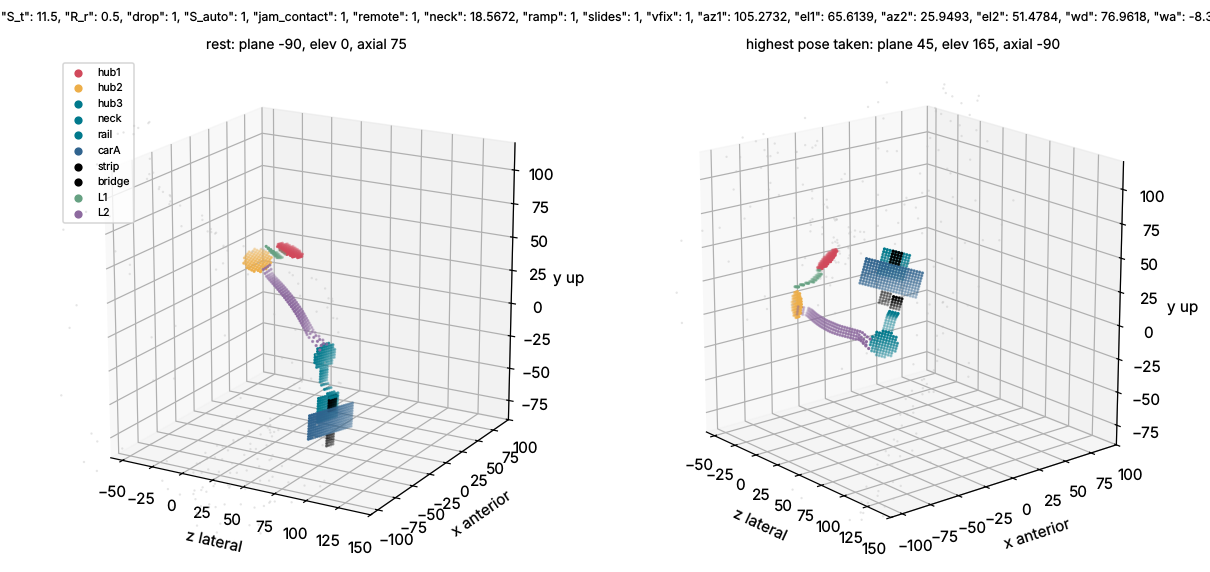
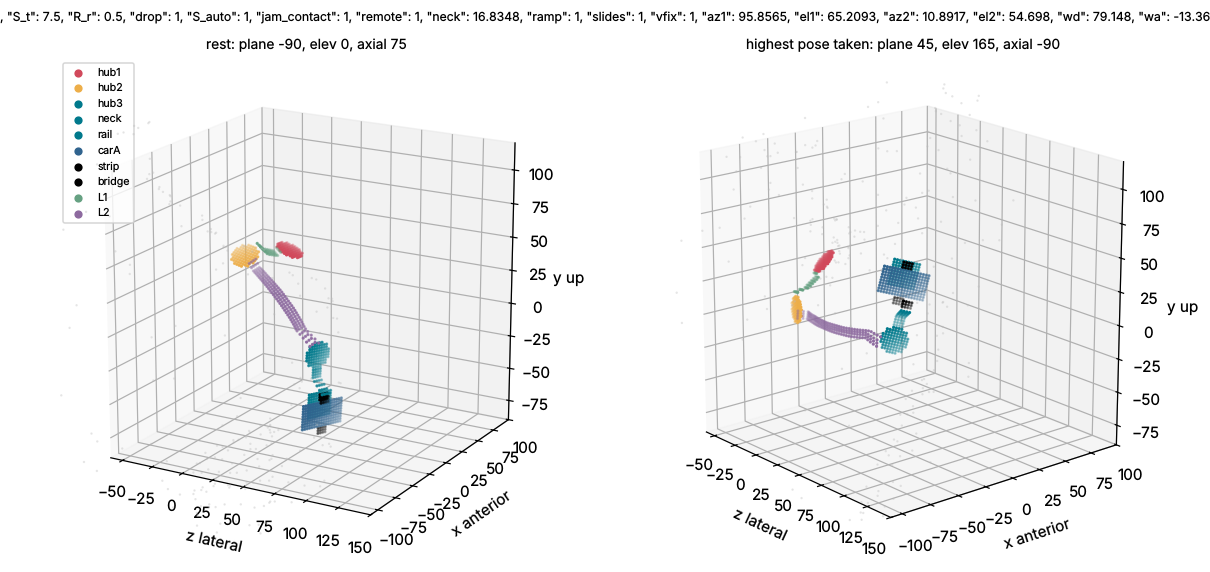
offset-skin-normal-3r screened: gap 32.61 (score 88.14, Bench(60,160) fast) - exact 2-slide cuff, no radial slide; gate pending round 3
Claude-Session: https://claude.ai/code/session_014NJ3o5nJ9b1u4LXnQRjmMh

Changed region(s): [[0.0, 0.0, 1.0, 0.0594], [0.6421, 0.4161, 0.795, 0.6241], [0.1835, 0.4161, 0.3058, 0.7727]]

diff --git a/docs/concepts/offset-skin-normal-3r.md b/docs/concepts/offset-skin-normal-3r.md
@@ -88,41 +88,54 @@ stays at the neck end and nothing arm-fixed ever reaches under the neck. Same st
 | coarse farm sweep, 216 configs (random seats: best 47.90) | 45.31 | | | | | | |
 | CMA stream A (481 tries, sigma collapsed) | 38.65 | 85.95 | 0.688 | 1.000 | 0.755 | 0.371 | 0.029 |
 | CMA stream B (665 tries, collapsed) | 40.06 | 85.43 | 0.675 | 1.000 | 0.791 | 0.404 | 0.067 |
-| **CMA stream C (697 tries, collapsed) - best, k1908** | **35.65** | **87.04** | 0.713 | 1.000 | 0.748 | 0.383 | 0.017 |
+| CMA stream C (697 tries, collapsed), k1908 | 35.65 | 87.04 | 0.713 | 1.000 | 0.748 | 0.383 | 0.017 |
 | control at k1908's seats, b3 0 (J3 on the GH ray) | 42.92 | 84.39 | 0.681 | | 0.713 | | 0.023 |
+| CMA round 2, stream D (from C, sigma 0.3, 673 tries) | 34.45 | 87.47 | 0.688 | 0.967 | 0.791 | 0.404 | 0.023 |
+| CMA round 2, stream E (from C, sigma 0.6, 673 tries) | 34.53 | 87.44 | 0.713 | 1.000 | 0.759 | 0.386 | 0.017 |
+| **CMA round 2, stream F (from A, sigma 0.5, 873 tries) - best, k4216** | **32.61** | **88.14** | 0.706 | 0.967 | 0.779 | 0.389 | 0.012 |
+| control at k4216's seats, b3 0 (J3 on the GH ray) | 46.71 | 83.01 | 0.681 | 0.917 | 0.709 | 0.319 | 0.024 |
+| reference: skin-normal-hubs-selfaligning (3 slides, radial 6.7 mm), its sweep best at 22:37 | 35.86 | 86.96 | 0.656 | 1.000 | 0.803 | 0.349 | 0.018 |
 
-Best configuration (k1908): J1 seat bvec(105.3, 65.6), J2 seat bvec(25.9, 51.5) (both on GH rays: link 1 40.5 deg,
-link 2 67.5 deg), J3 seat w_dir(77.0, -8.4) tilted b3 0.34 toward the skin normal (27.9 deg between the GH ray and the
-skin normal there; the J3 line misses GH by 11.0 mm), neck 18.6 mm; slide travel used +-9.7 along / +-11.0 across
-(ranges 10.2 / 11.5); radial drift 0.000 mm. Faces f1 49.6, f2 61.2, f3 74.8 mm. In band 2-14 per part: hub 1 99 %,
-hub 2 97 %, link 1 90 %, rail block 89 %, link 2 82 %, moving rail 69 %, neck 62 %, carriage A 62 %, hub 3 51 %
-(median 13.9 mm), bridge 12 % (16.9 mm). b3 ladder at these seats: 0 -> 42.92, 0.1 40.76, 0.2 41.80, 0.3 38.82,
-0.4 37.49, 0.5 45.36 (slide travel then exceeds what the stack can carry in band).
+Best configuration (k4216): J1 seat bvec(95.9, 65.2), J2 seat bvec(10.9, 54.7) (both on GH rays: link 1 40.3 deg,
+link 2 74.1 deg), J3 seat w_dir(79.2, -13.4) tilted b3 0.23 toward the skin normal (26.6 deg between the GH ray and
+the skin normal there; the J3 line misses GH by 7.0 mm), neck 16.8 mm; slide travel used +-5.8 along / +-7.0 across
+(ranges 6.3 / 7.5); radial drift 0.000 mm. Faces f1 51.3, f2 61.2, f3 75.7 mm. In band 2-14 per part: hub 1 100 %,
+hub 2 99.6 %, link 1 93 %, rail block 89 %, link 2 82 %, moving rail 70 %, carriage A 67 %, neck 62 %, hub 3 50 %
+(median 14.0 mm), bridge 0 % (17.7 mm). The k1908 basin (C) as a b3 ladder: 0 -> 42.92, 0.1 40.76, 0.2 41.80,
+0.3 38.82, 0.4 37.49, 0.5 45.36 (slide travel then exceeds what the stack can carry in band).
 
-**What the morphology buys.** At the best seats, tilting J3 toward the skin normal and letting its line miss GH by
-~11 mm buys 7.3 gap (42.92 -> 35.65): fewer J2-fold poses (46 -> 43, the J3 direction moves) and hub 3 / stage lower.
-The re-tuned J1 / J2 seats (a spherical-family freedom) are worth the rest of the gain over the baseline. The
-2-slide exact cuff scores level with the 3-slide skin-normal-hubs-selfaligning (35.86 on the same bench, its radial
-slide 6.7 mm): **the radial slide is not needed** - it buys nothing measurable and adds an unguided stroke (the
-verifier's open hole in the seed) and 0.5 + R_r mm of stack.
+**What the morphology buys.** At the best seats, tilting J3 toward the skin normal (b3 0.23) with its line 7 mm off GH
+buys 14.1 gap (46.71 -> 32.61; 7.3 at k1908's seats): fewer J2-fold poses (52 -> 47) because the J3 direction moves,
+hub 3 and the stage lower, link 2 straighter. The re-tuned J1 / J2 seats are a spherical-family freedom (they could be
+handed to the spherical GPU sweep). The 2-slide exact cuff scores better than the 3-slide
+skin-normal-hubs-selfaligning on the same bench (32.61 vs its 35.86 at 22:37): **the radial slide is not needed on
+this bench** - it adds an unguided stroke (the verifier's open hole in the seed) and 0.5 + R_r mm of stack.
 
-## Red team (best configuration, k1908)
+**Convergence gate (binding), whole history in order (4523 tries: 220 coarse/controls, 1843 CMA round 1, 2356
+round 2, 7 controls): NOT converged** - the best gained 1.11 score points over the second half and 0.67 over the last
+third (round 2's restart from stream A's basin found 32.61); top 5 within 0.07. Each CMA stream converged on its own
+(sigma collapsed to 0.02; per-stream gates: A +0.25 / +0.08 / 0.02, B +0.27 / +0.09 / 0.03, C +0.15 / +0.15 / 0.03),
+so the landscape is multi-basin: restarts from a stream's optimum at larger sigma find new basins. Round 3 (G, H from
+k4216 at sigma 0.3 / 0.7, I from D at 0.5) was submitted to the farm at 23:31 UTC (outputs .cache/osn/cma{G,H,I}.json).
 
-* **The pose that jams.** 43 poses are lost to the J2 fold (>= 10 deg margin) - across-the-body 12 of 36 lost, overhead 16
-  of 41 (15 fold + 1 skin; Raise overhead elev 124-150, plane 30), behind-the-back 3 of 19. The fold window is
-  |a1 - a2| + 10 = 37 deg to a1 + a2 - 10 = 98 deg of the J1-J3 axis angle, which spans 13-156 deg over the bench
-  (5-95 % 30-124 deg): 20 poses fall below, 27 above (measured at k3). Margin sensitivity at k3: 10 deg 173 / 220
-  poses close, 5 deg 183, 0 deg 191. No offset or slide can move this: the orientation IK is the spherical one.
-* **The point that pinches.** Over the poses taken the lowest metal is link 2 at **0.01 mm** (plane 60, elev 165,
-  axial -90), hub 1 at 0.52 mm (plane 45, elev 165) and 0.55 mm (plane 135, elev 135), hub 2 at 0.55 mm (plane 0,
-  elev 75, axial 45), rail block 0.70 mm (plane -90, elev 45, axial 120), hub 1 0.76 mm in the *Raise overhead*
-  clip top frames. In those top frames hub 2 sits in the gap UNDER the elevated arm (the outward ray through hub 2
-  re-enters the arm: needed height unbounded, the pose was dropped from the fit, yet the metal clears by >= 0.76 mm,
-  so the bench takes it) - a closing pinch between arm and acromion.
-* **The optimistic number.** The bench takes a pose at metal >= 0 mm. Counting a taken pose as contact when its
-  metal comes within 1 mm: gap 42.49 (8 poses, 3 clip frames); within 2 mm: 47.26 (12 poses). The 35.65 leans on
-  ~7-12 points of near-contact that CMA pushed the fitted undersides into; the verifier should re-measure on
-  Bench(110,360) exact where the envelope includes more poses.
+## Red team (best configuration, k4216)
+
+* **The pose that jams.** 47 poses are lost to the J2 fold (>= 10 deg margin): across-the-body 12 of 36, overhead 19
+  of 41 (Raise overhead clip frames #3 and #7 among them: follow 0.967), behind-the-back 5 of 19; 2 more to the skin
+  (plane -15, elev 90-105, axial 45-60, where hub 2's outward ray is blocked by the elevated arm). The fold window is
+  |a1 - a2| + 10 to a1 + a2 - 10 of the J1-J3 axis angle (here 44-104 deg), which spans 13-156 deg over the bench (5-95 %
+  30-124 deg). Margin sensitivity (at k3): 10 deg 173 / 220 poses close, 5 deg 183, 0 deg 191. No offset or slide can
+  move the fold: the orientation IK is the spherical one with the same directions.
+* **The point that pinches.** Over the poses taken the lowest metal is the arm-fixed guide block at **0.21 mm** (plane
+  -90, elev 45, axial 120: behind the back), hub 2 at 0.49 mm (plane 0, elev 75, axial 45) and 0.76 mm (plane 15),
+  hub 2 1.00 mm (plane 60, elev 135), the block 1.14 / 1.41 mm (plane 90-105, elev 30, axial -135). In the *Raise
+  overhead* top frames hub 2 sits in the gap UNDER the elevated arm (the outward ray through hub 2 re-enters the arm,
+  needed height unbounded: those frames were dropped from the fit but the metal clears, so the bench takes them) - a
+  closing pinch between arm and acromion. (k1908 had link 2 at 0.01 mm at plane 60, elev 165.)
+* **The optimistic number.** The bench takes a pose at metal >= 0 mm. Counting a taken pose as contact when its metal
+  comes within 1 mm: gap 37.42 (4 poses); within 2 mm: 41.44 (8 poses, 1 clip frame). CMA pushes the fitted undersides
+  to the edge of the envelope; the verifier should re-measure on Bench(110,360) exact, where the envelope holds more
+  poses (the seed lost 6.8 gap that way).
 * **Closure and slides.** Rotation residual max 0.015 deg; radial drift 0.000 mm over 514 clip + workspace poses (the
   subfamily is exact by construction); both slides set by closure, no flips between 10 fps clip frames; 0 part jams
   with the inverted guide (55-103 with the seed's arm-fixed rail).
@@ -131,3 +144,38 @@ verifier's open hole in the seed) and 0.5 + R_r mm of stack.
   no GH translation, so the slides' R10 benefit (absorbing real GH-vs-scapula motion) is invisible here and the 2-slide
   cuff would have to absorb that translation's radial part too (it cannot: a real arm would need the third slide or
   soft-tissue compliance for R10 - test it on the R10 judge before choosing between 2 and 3 slides).
+
+## Verdict
+
+**Screened, a leader on the screening bench: gap 32.61 (score 88.14), Bench(60,160) fast, every verifier check of the
+seed's VModel on; not yet converged by the whole-history gate.** It beats the 68.93 baseline by 36 and the 3-slide
+skin-normal relative by 3. The morphology's own contribution is real and measured (J3 tilted toward the skin normal
+with its line 7 mm off GH: 14.1 gap at the best seats, 7.3 at another basin's seats). The spec's version (all three
+hubs skin-normal, 2 slides) cannot close (17.7 % of poses at +-0.5 mm); the exact form is J1 / J2 on GH rays + a free
+J3 line + 2 slides in hub 3's plane, and the radial slide of the 3-slide relatives is unnecessary on this bench.
+
+New knowledge (predicts beyond this morphology):
+1. **Two-slide closure theorem.** A translational cuff with k slides closes an offset 3R exactly iff every axis line
+   except the last passes through GH and the slides span the last hub's plane (k = 2) - any J1 / J2 offset needs the
+   third (radial) slide. This applies to every "offset axes + passive cuff" concept in the catalogue
+   (offset-axis-skin-hubs, offset-flex-aligner, seed-offset-3r-slides, skin-normal-hubs-selfaligning).
+2. **An arm-fixed guide rail is metal the distal member must fly over.** With the seed's stage, every J3 offset that
+   needs > ~5 mm of along-travel jams the neck on the rail (55-103 of 220 poses). Mounting the guide upside down (short
+   carriage on the cuff, rail riding with the chain) removes the conflict at no height cost. The 3-slide models escape
+   only because their radial slide lifts carriage B.
+3. **The limiter left is the spherical J2 fold** (47 poses at 10 deg margin, window 44-104 deg vs 13-156 deg needed) -
+   orientation-level, untouched by any offset or slide - and hub 3 + the stage at ~50-67 % in band (median 12-14 mm).
+
+**Next (the loop):** let round 3 finish and append it (the gate); the adversarial verifier re-measures k4216 on
+Bench(110,360) exact with 1 mm radial clearance; then the R10 judge with the real GH translation decides between 2 and
+3 slides (on the real arm the GH-vs-scapula translation has a radial part that only a third slide or soft tissue can
+take). The fold needs a morphology change (a 4th passive DOF at the J2 fold, or link angles a1 ~ a2 ~ 85 deg with
+J2 parked where the arm is not), not more tuning.
+
+## Files
+
+* model: docs/concepts/models/offset-skin-normal-3r.py (`check`, `kin`, `redteam [--png]`; built on
+  seed-offset-3r-slides.py's VModel; ~3-8 s per configuration on the fast grid)
+* sweep log: docs/concepts/sweeps/offset-skin-normal-3r.json (in order; `stage` = local-check, coarse-farm, cma-A/B/C,
+  cma-L-local, control-b3-*, cma2-D/E/F, cma2-M-local; configurations where no pose closes are logged as gap 275)
+* sketch: docs/concepts/img/offset-skin-normal-3r.png (rest and highest pose taken, k4216)
